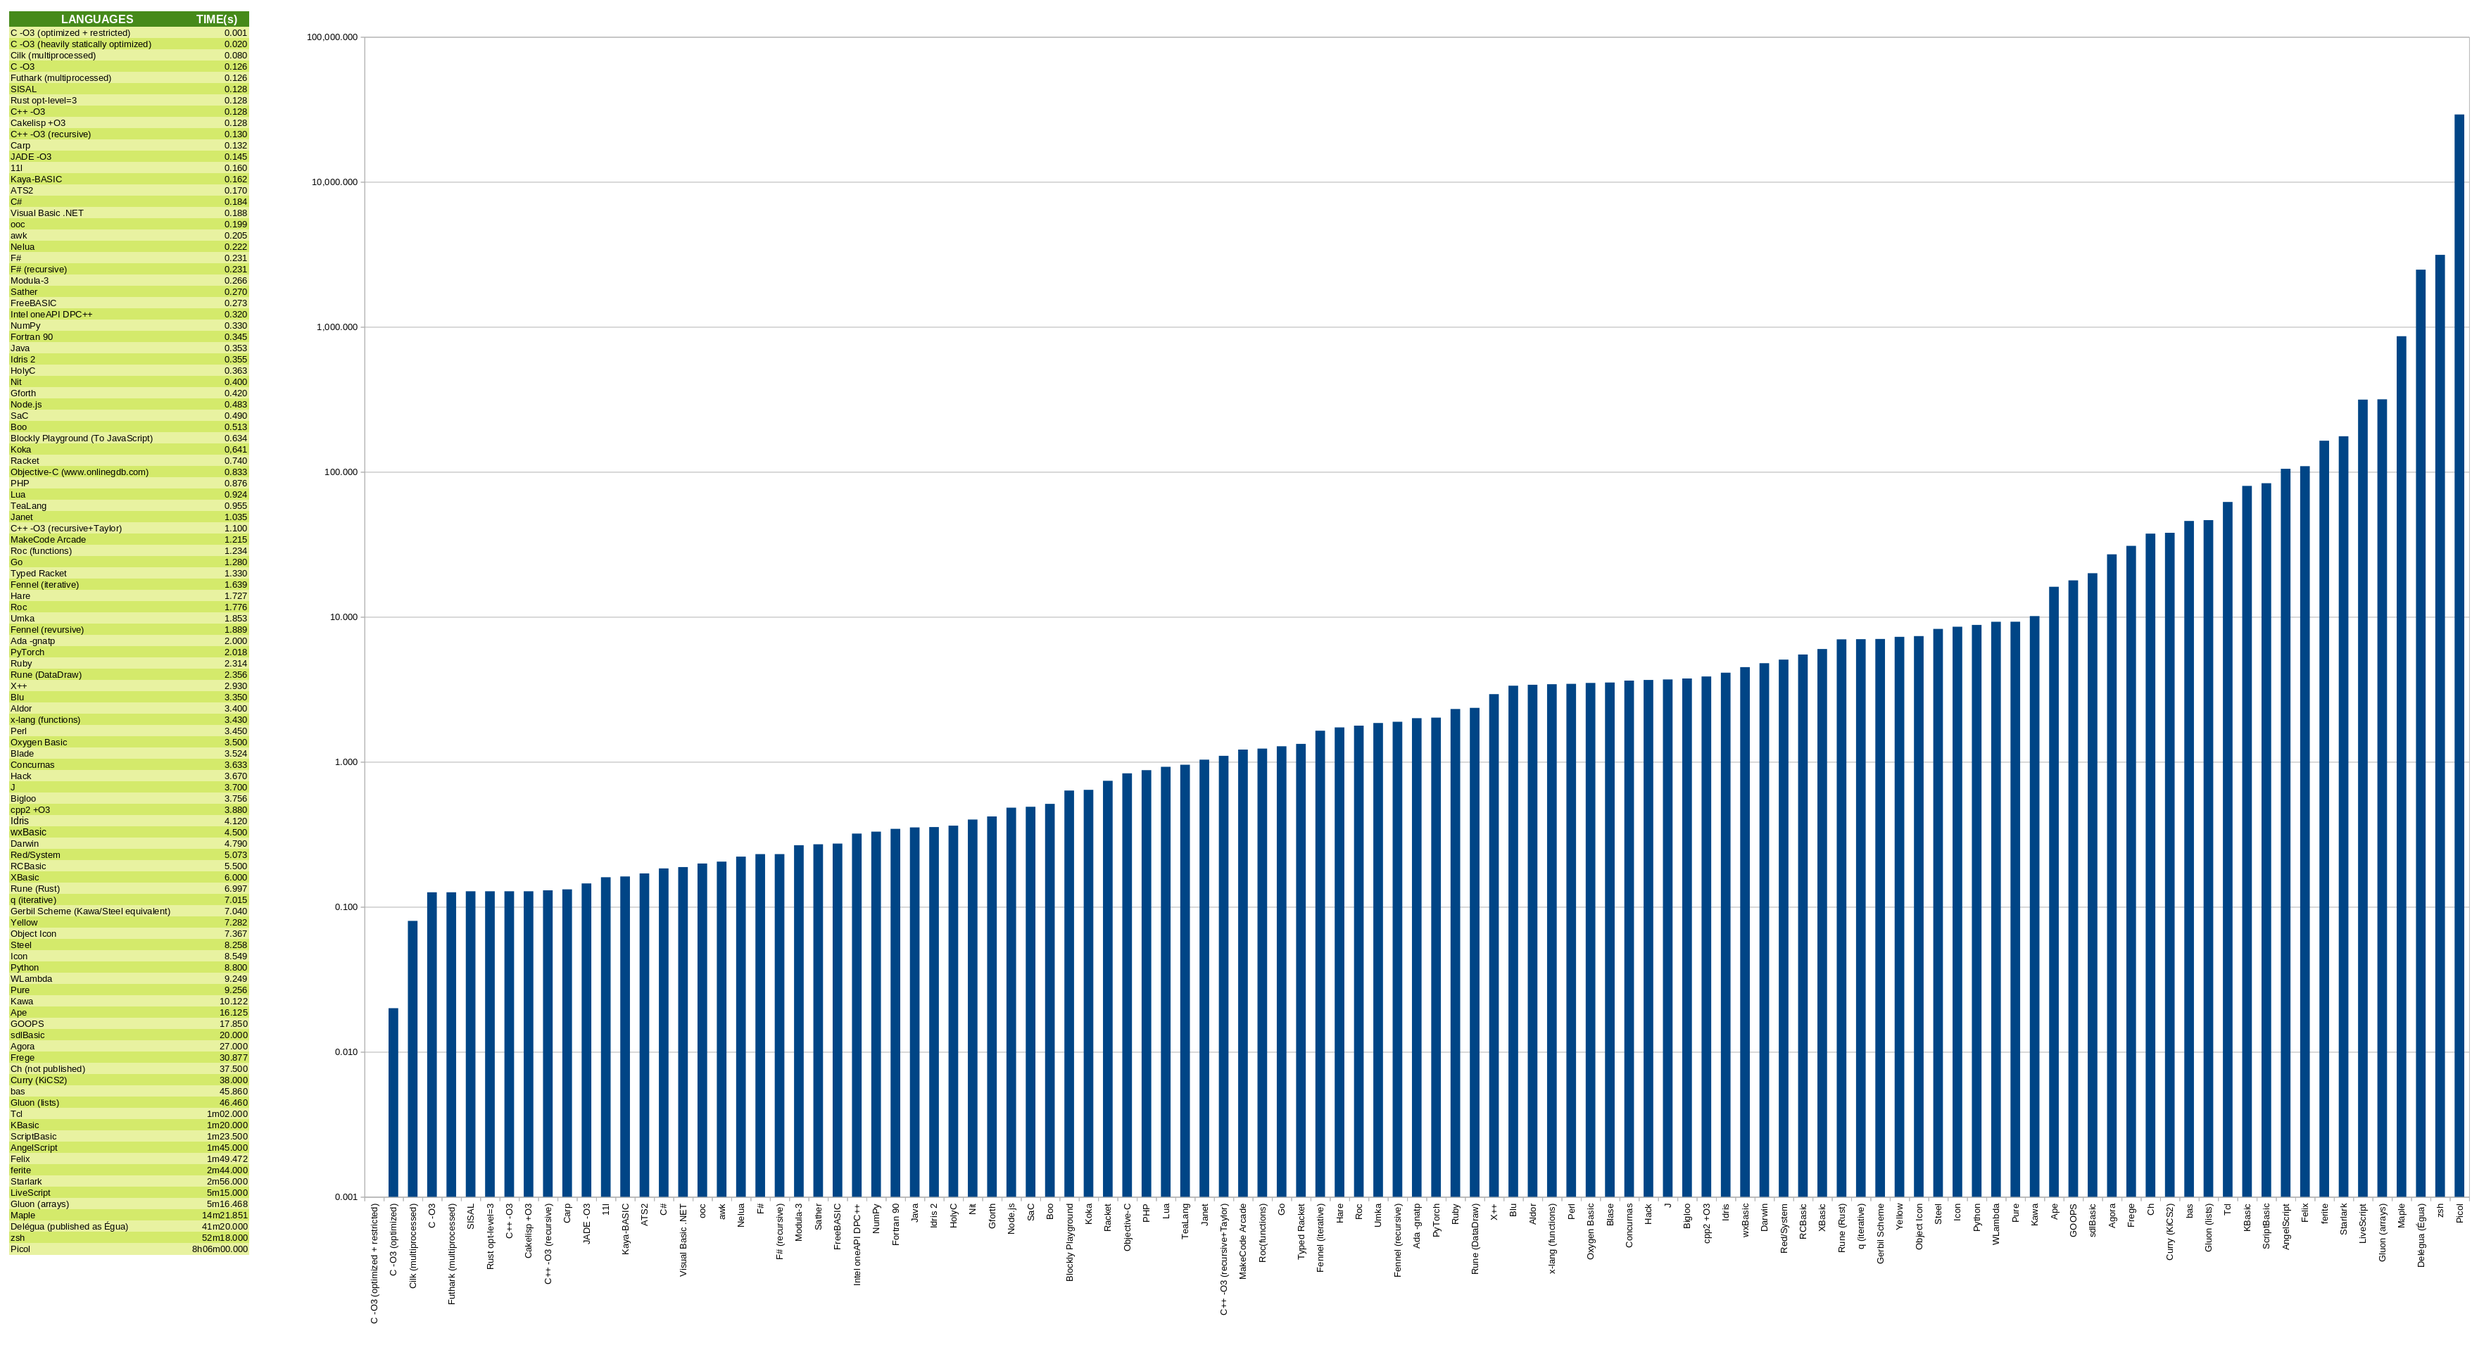
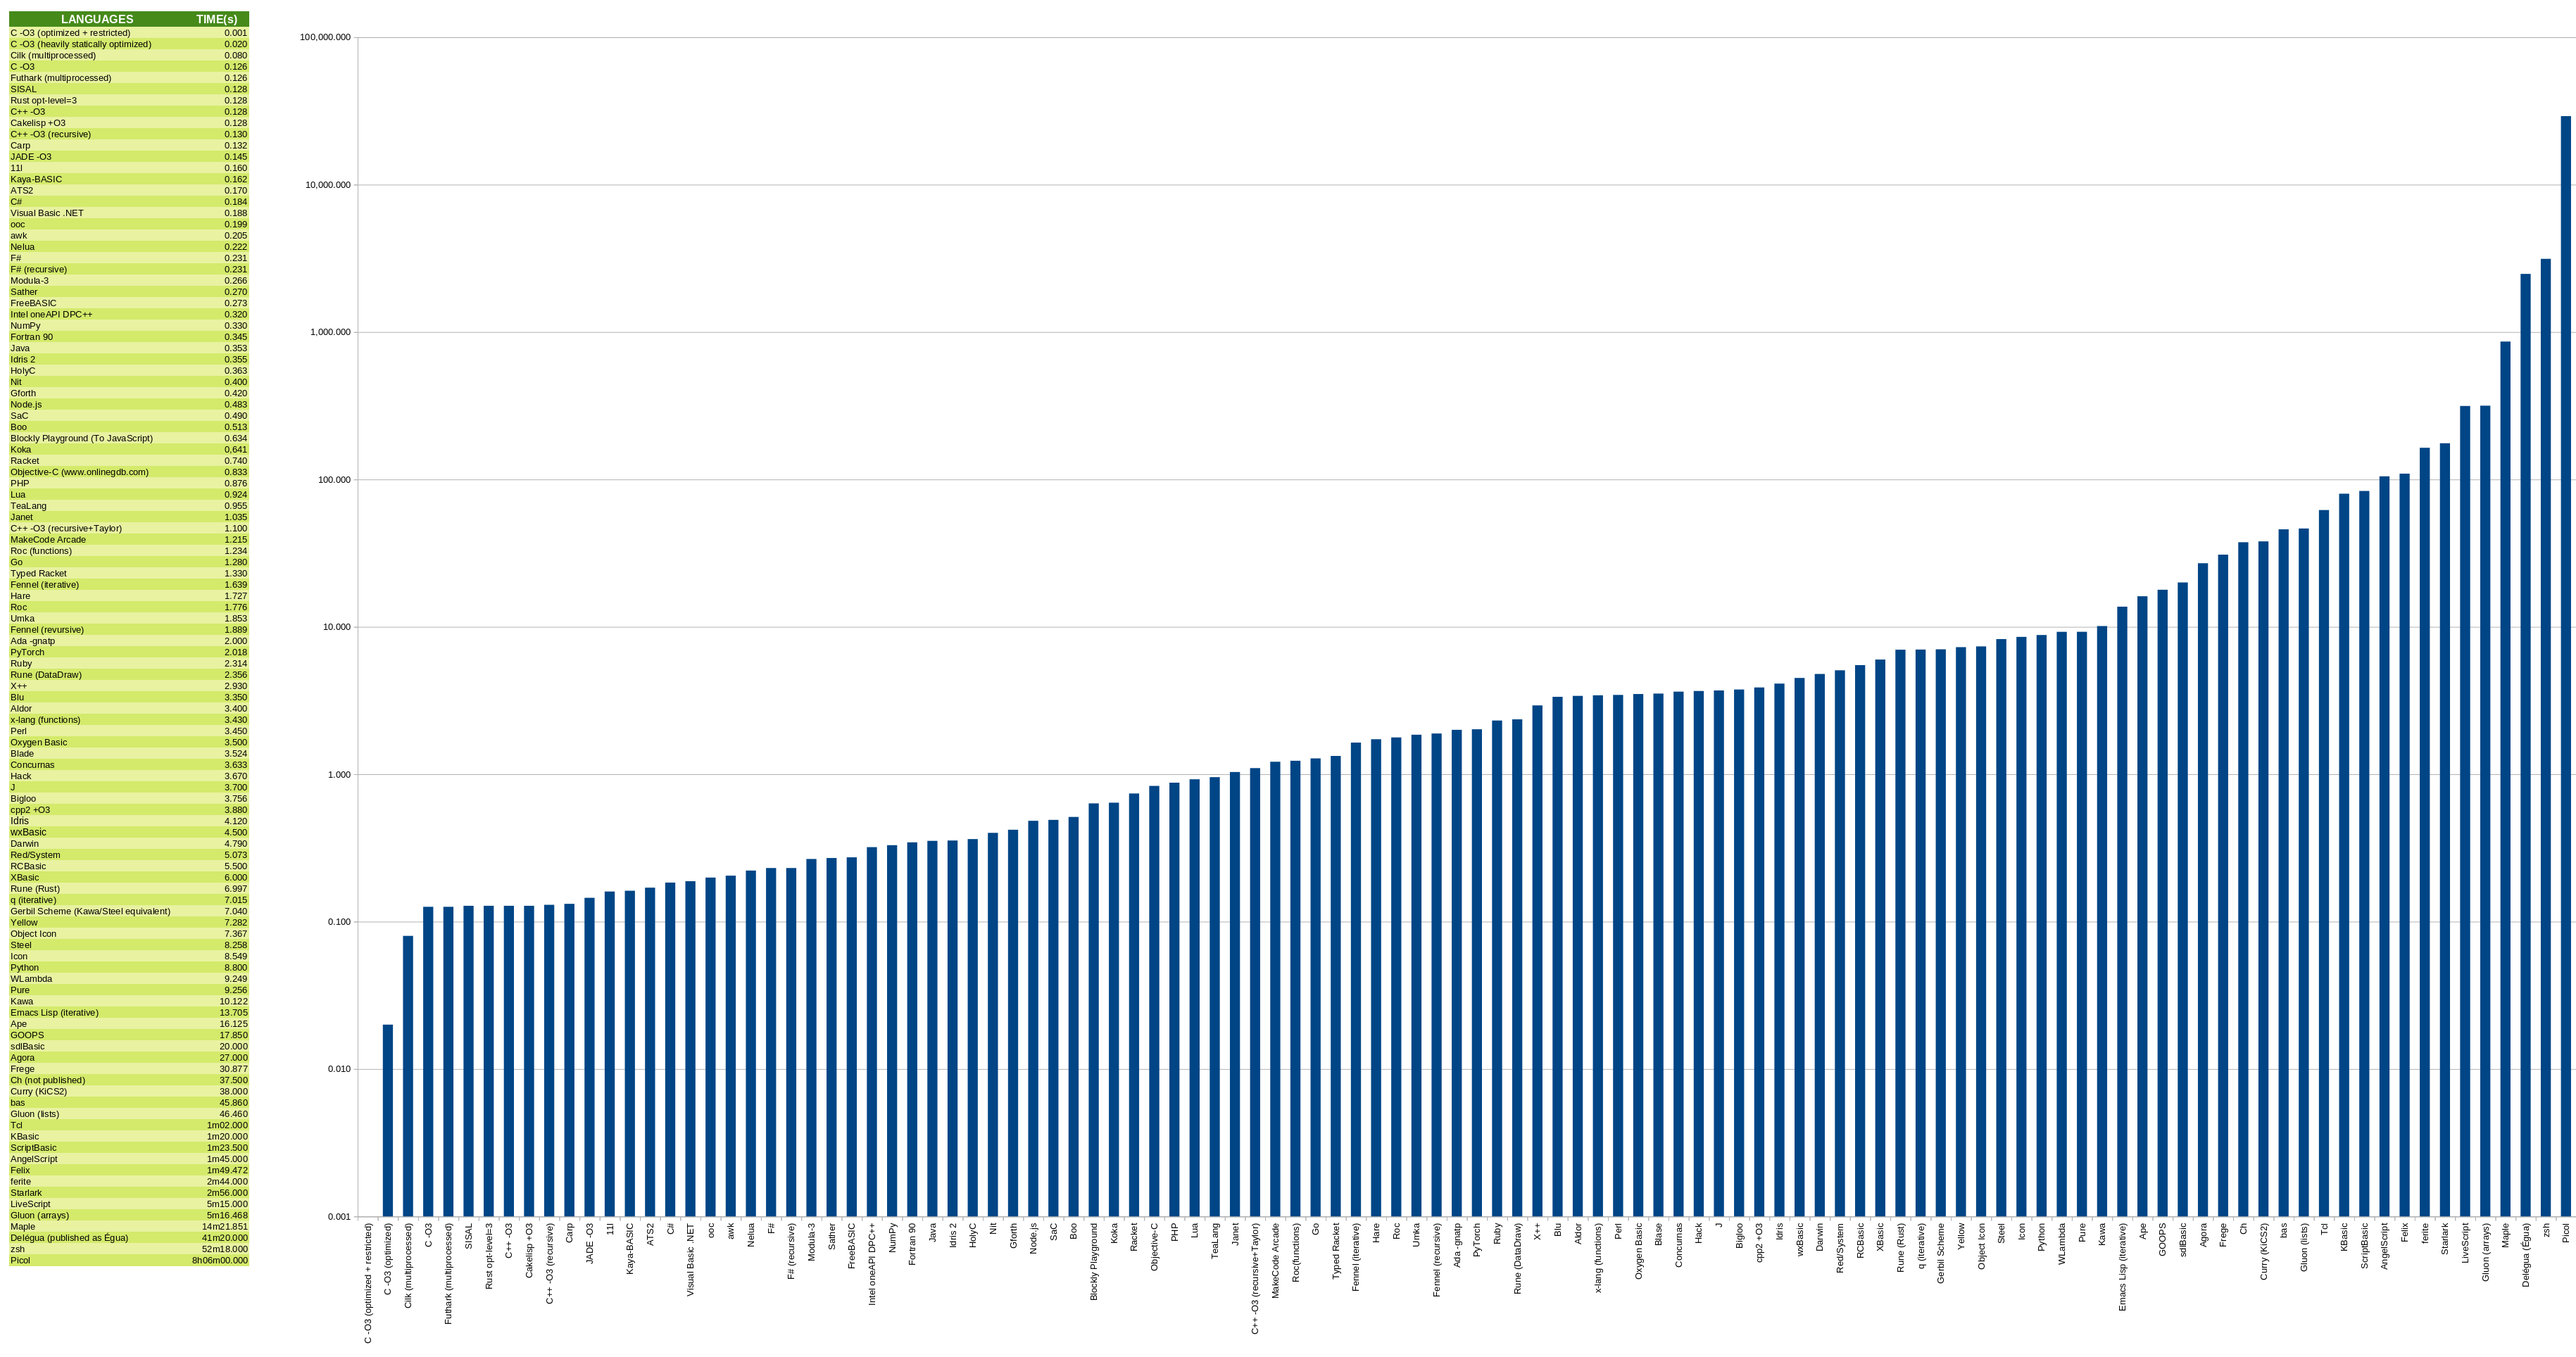
Add files via upload
+ TCO + iterativa

Changed region(s): [[0.0, 0.0, 1.0, 0.9571], [0.4345, 0.5557, 0.4655, 0.5866]]

diff --git a/SOLUCOES.md b/SOLUCOES.md
@@ -450,9 +450,10 @@ This is a list of links in this repository to solutions in different dialects, o
 
 [juros.elv](juros.elv)
 
-### Emacs Lisp (21/03/2025) ♻
+### Emacs Lisp (21/03/2025)
 
-[jurosE.lisp](jurosE.lisp)
+**iterativa / iterative:** [jurosEi.lisp](jurosEi.lisp)<br>
+**recursiva / recursive:** [jurosE.lisp](jurosE.lisp) + ♻ ➰
 
 ### Embedded C for ARM Cortex-M (17/02/2026) 🧠 🔧 ✍
 
